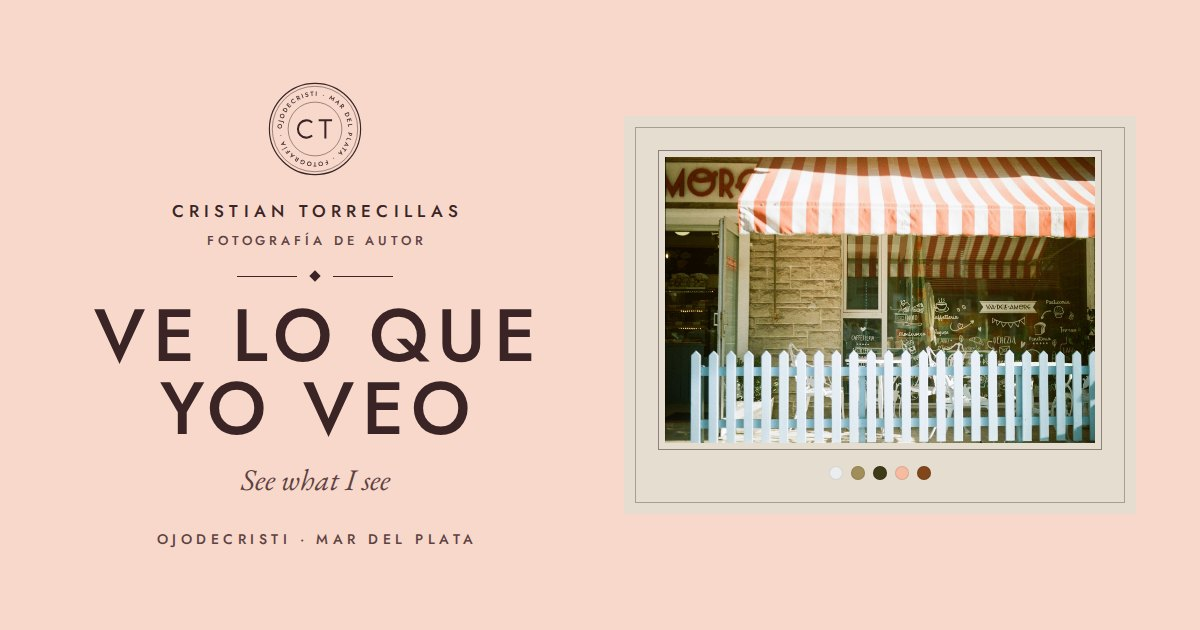
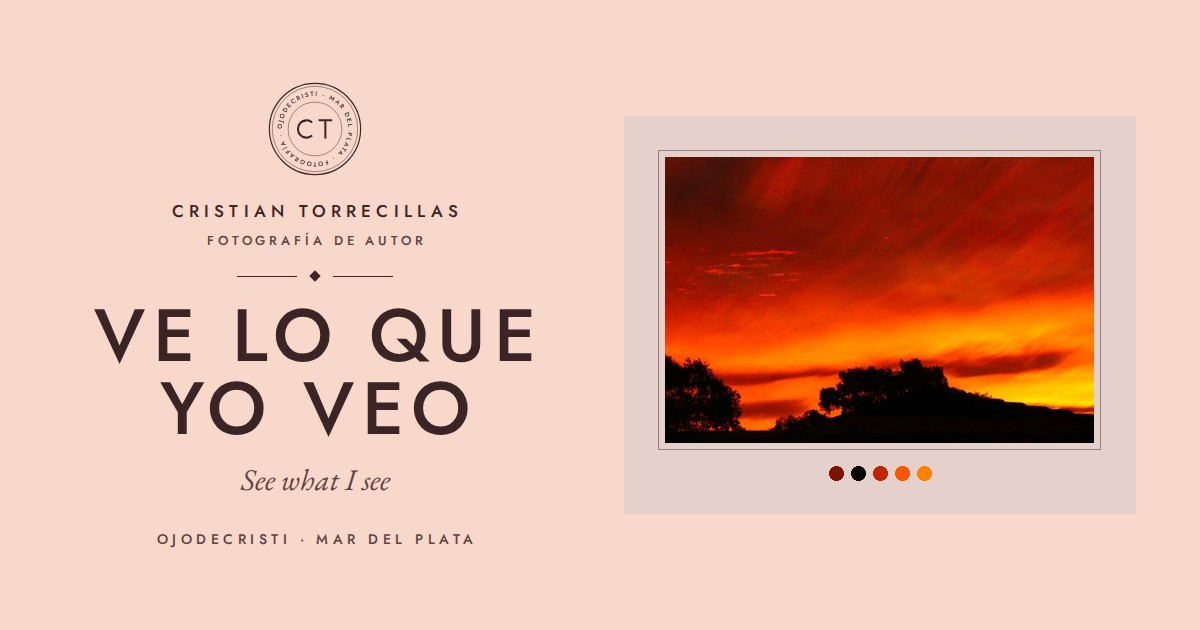
La imagen al compartir el link se arma sola con la foto principal de la portada
Claude-Session: https://claude.ai/code/session_01DrQHYHJYj9euCgseMvBJma

Changed region(s): [[0.555, 0.2413, 0.925, 0.7841]]

diff --git a/admin/index.html b/admin/index.html
@@ -896,7 +896,7 @@ function bloqueSeo(c) {
     '<meta property="og:title" content="' + attr(titulo) + '">',
     '<meta property="og:description" content="' + attr(desc) + '">',
     sitio && '<meta property="og:url" content="' + attr(sitio) + '">',
-    sitio && '<meta property="og:image" content="' + attr(sitio + "compartir.jpg") + '">',
+    sitio && '<meta property="og:image" content="' + attr(sitio + "compartir.jpg" + (a.compartirFoto ? "?v=" + a.compartirFoto : "")) + '">',
     '<meta property="og:image:width" content="1200">',
     '<meta property="og:image:height" content="630">',
     '<meta property="og:image:alt" content="' + attr(t["portada.creditos"] || titulo) + '">',
@@ -2377,10 +2377,47 @@ function pasosPublicar(lista, activo) {
   ol.replaceChildren();
   lista.forEach((t, i) => ol.append(el("li", { class: i < activo ? "hecho" : i === activo ? "activo" : "", texto: t })));
 }
+/* ---------- Imagen para compartir el link (WhatsApp, Instagram…) ----------
+   Se arma sola al publicar con la foto principal de la portada: sobre «compartir-base.png»
+   (el texto y el sello, con el hueco de la foto) se pone la foto con su paspartú y su paleta. */
+function fotoDeCompartir(c) {
+  const vis = (n) => c.fotos.find((f) => f.n === n && !f.oculta);
+  const a = c.ajustes || {};
+  if (a.portadaModo === "carrusel") { const f = (a.carrusel || []).map(vis).filter(Boolean); if (f.length >= 3) return f[0]; }
+  const p = a.portada || [];
+  return vis(p[1]) || vis(p[0]) || vis(p[2]) || c.fotos.find((f) => !f.oculta) || null;
+}
+async function hacerImagenCompartir(f, commit) {
+  const plantilla = await cargarImagen(RAW + "/" + REPO.dueno + "/" + REPO.nombre + "/" + commit + "/compartir-base.png");
+  const foto = nuevas.has(f.n) ? await decodificar(nuevas.get(f.n).mini) : await cargarImagen(RAW + "/" + REPO.dueno + "/" + REPO.nombre + "/" + commit + "/fotos/mini/" + f.n + ".jpg");
+  const W = 1200, H = 630, c = document.createElement("canvas");
+  c.width = W; c.height = H;
+  const x = c.getContext("2d");
+  x.drawImage(plantilla, 0, 0, W, H);
+  // paspartú: el color de la foto, aclarado
+  const p0 = (f.paleta || []).find((k) => HEX.test(k)) || "#d9cdb8";
+  const rgb = [1, 3, 5].map((i) => parseInt(p0.slice(i, i + 2), 16));
+  const mezcla = (t) => "rgb(" + rgb.map((v) => Math.round(v + (255 - v) * t)).join(",") + ")";
+  const BX = 624, BY = 116, BW = 512, BH = 398;
+  x.fillStyle = mezcla(.8); x.fillRect(BX, BY, BW, BH);
+  // la foto entra entera en una ventana de 430 × 286
+  const ar = (f.ancho > 0 && f.alto > 0 ? f.ancho / f.alto : (foto.width || 3) / (foto.height || 2));
+  let w = 430, h = Math.round(w / ar);
+  if (h > 286) { h = 286; w = Math.round(h * ar); }
+  const px = BX + (BW - w) / 2, py = 157 + (286 - h) / 2;
+  x.drawImage(foto, px, py, w, h);
+  x.strokeStyle = "rgba(60,36,39,.45)"; x.lineWidth = 1;
+  x.strokeRect(px - 6.5, py - 6.5, w + 13, h + 13);
+  const dots = (f.paleta || []).filter((k) => HEX.test(k)).slice(0, 5);
+  dots.forEach((k, i) => { x.beginPath(); x.arc(BX + BW / 2 + (i - (dots.length - 1) / 2) * 22, 473, 7, 0, Math.PI * 2); x.fillStyle = k; x.fill(); });
+  if (foto.close) foto.close();
+  return await new Promise((ok, mal) => c.toBlob((b) => (b ? ok(b) : mal(new Error("imagen"))), "image/jpeg", .9));
+}
 /* Arma la lista de cambios de archivos para el commit, sobre la versión publicada «actual» */
-function armarArbol(actual, final, altas) {
+function armarArbol(actual, final, altas, compartirSha) {
   const html = armarHtml(actual.html, final);
   const arbol = [{ path: "index.html", mode: "100644", type: "blob", content: html }];
+  if (compartirSha) arbol.push({ path: "compartir.jpg", mode: "100644", type: "blob", sha: compartirSha });
   altas.forEach((f) => {
     const v = nuevas.get(f.n);
     arbol.push({ path: "fotos/web/" + f.n + ".jpg", mode: "100644", type: "blob", sha: v.blobWeb });
@@ -2443,10 +2480,24 @@ async function publicar() {
     }
     // 3. Armar la nueva versión y publicarla en un solo paso
     pasosPublicar(nombresPasos, 2);
+    // La imagen que se ve al compartir el link sigue a la foto principal de la portada (si falla, no frena la publicación)
+    let compartirSha = null;
+    try {
+      const fc = fotoDeCompartir(final);
+      if (fc && actual.archivos.has("compartir-base.png")) {
+        if (fc.n !== (actual.contenido.ajustes || {}).compartirFoto || !actual.archivos.has("compartir.jpg")) {
+          $("#publicar-detalle").textContent = "Armando la imagen para compartir el link…";
+          const blob = await hacerImagenCompartir(fc, actual.commit);
+          const r = await ghEscribir(rutaRepo("/git/blobs"), { method: "POST", body: { content: await blobABase64(blob), encoding: "base64" } });
+          compartirSha = r.sha;
+        }
+        final.ajustes.compartirFoto = fc.n;
+      }
+    } catch (_) { compartirSha = null; }
     $("#publicar-detalle").textContent = "Guardando textos y datos…";
     const mensaje = PREFIJO_COMMIT + (partes.join(", ") || "cambios");
     for (let intento = 0; intento < 3 && !hecho; intento++) {
-      const armado = armarArbol(actual, final, altas);
+      const armado = armarArbol(actual, final, altas, compartirSha);
       const t = await ghEscribir(rutaRepo("/git/trees"), { method: "POST", body: { base_tree: actual.arbol, tree: armado.arbol } });
       const c = await ghEscribir(rutaRepo("/git/commits"), { method: "POST", body: { message: mensaje, tree: t.sha, parents: [actual.commit] } });
       try {

diff --git a/index.html b/index.html
@@ -13,7 +13,7 @@
 <meta property="og:title" content="Cristian Torrecillas · Fotografía de autor — ojodecristi">
 <meta property="og:description" content="Fotografía de autor de Cristian Torrecillas en Mar del Plata y de cada lugar que recorro. Cada foto tiene su número único, y cualquiera puede avivar tu espacio.">
 <meta property="og:url" content="https://cristiantorrecillas.github.io/pagina-web/">
-<meta property="og:image" content="https://cristiantorrecillas.github.io/pagina-web/compartir.jpg">
+<meta property="og:image" content="https://cristiantorrecillas.github.io/pagina-web/compartir.jpg?v=139">
 <meta property="og:image:width" content="1200">
 <meta property="og:image:height" content="630">
 <meta property="og:image:alt" content="Cristian Torrecillas · Fotografía de autor">
@@ -883,8 +883,7 @@ section[id] { scroll-margin-top: 84px; }
 <p class="sr" id="anuncio" aria-live="polite"></p>
 
 <!-- Contenido del sitio: textos, fotos, categorías y series. Se edita desde el panel (admin/). -->
-<script type="application/json" id="contenido">
-{
+<script type="application/json" id="contenido">{
   "formato": 1,
   "ajustes": {
     "nombreCompleto": "Cristian Torrecillas",
@@ -910,7 +909,8 @@ section[id] { scroll-margin-top: 84px; }
       "027",
       "022",
       "109"
-    ]
+    ],
+    "compartirFoto": "139"
   },
   "textos": {
     "marca.nombre": "ojodecristi",
@@ -5829,8 +5829,7 @@ section[id] { scroll-margin-top: 84px; }
     }
   ],
   "publicado": "2026-09-29T06:03:20.503Z"
-}
-</script>
+}</script>
 <script>
 (() => {
 "use strict";
